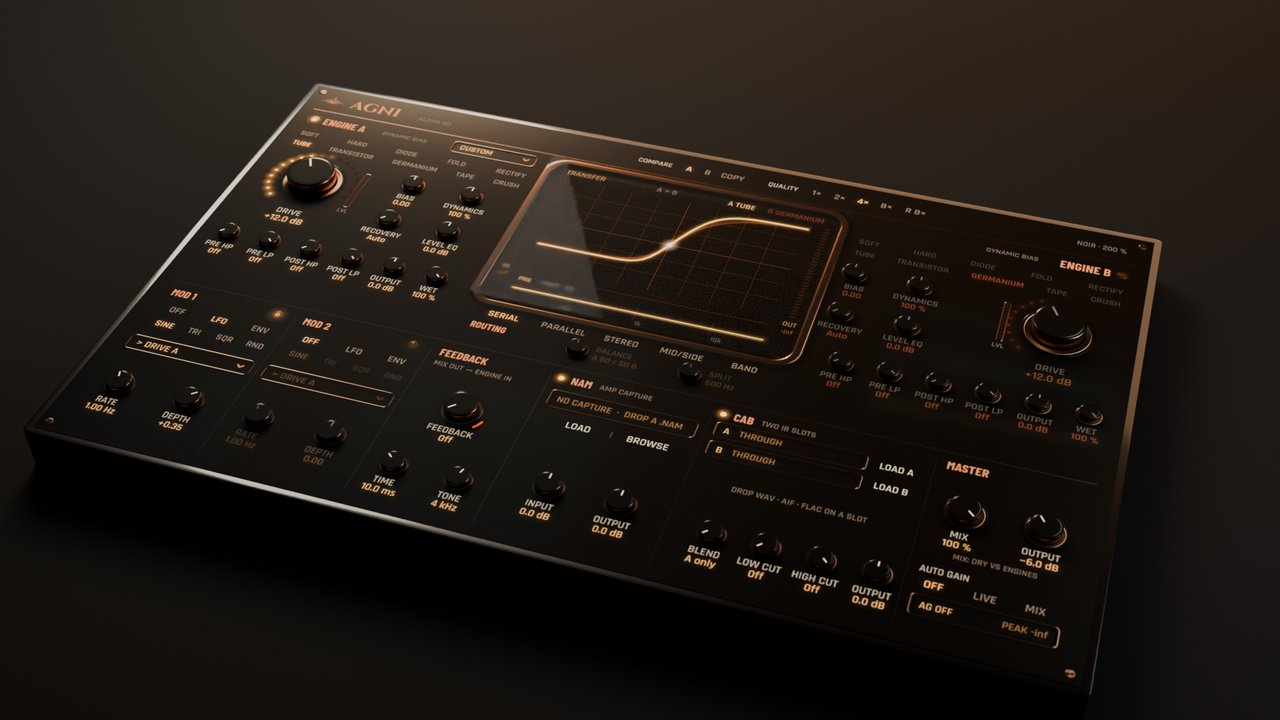
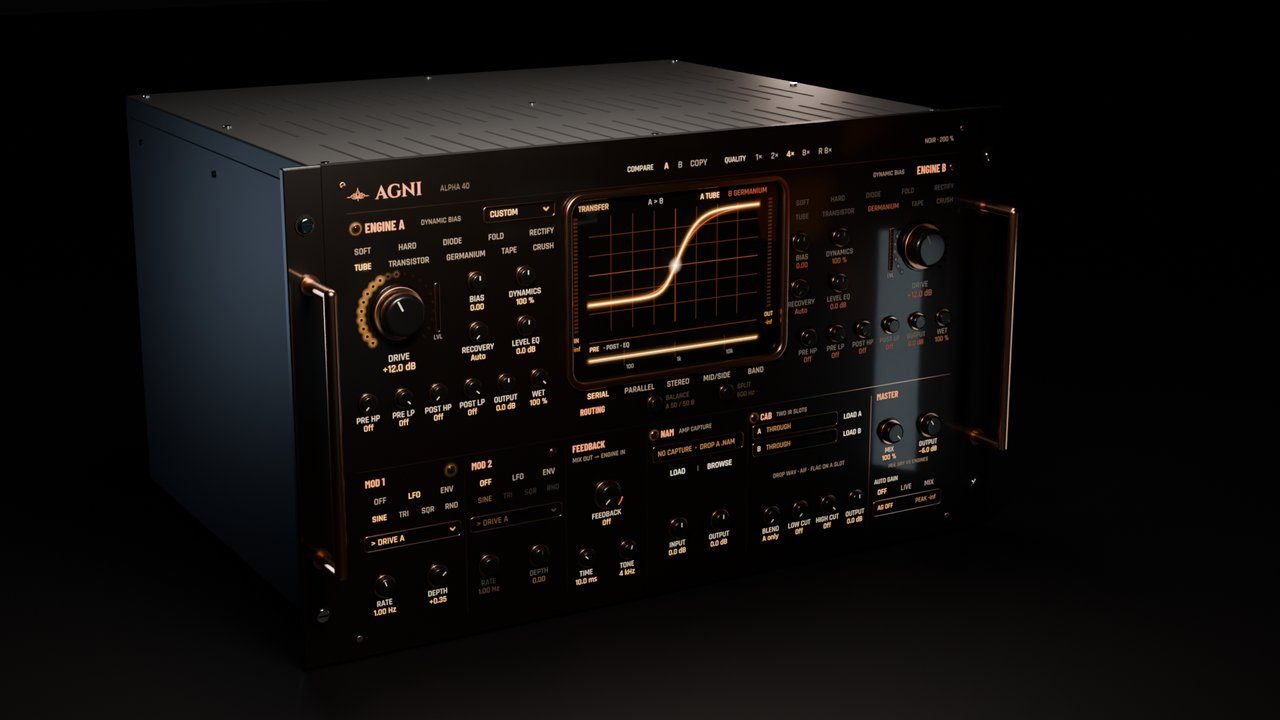
Site: 3D rack-unit hero renders for every product (Noir Limiter/Console/Dynamics/Neural, Agni Pyre, Galana Obsidian, Akasa Noir, Shunya Eclipse/Graticule, Lahari Fantasy/Analog)

diff --git a/index.html b/index.html
@@ -19,7 +19,7 @@
   <h1>I build plugins, <em>and this is where I keep them.</em></h1>
   <p>Pull up a chair. This is my little museum.. a channel strip, an effects box, a distortion, two reverbs and a modulation box. A lot of what they do is fitted to stuff I analyzed myself, and I built every one of them to feel good under your hands. All VST3, all Windows.</p>
   <div class="row"><a class="btn solid" href="spanda.html">start with Spanda</a><a class="btn" href="#plugins">see them all</a><a class="btn" href="buy.html">buy</a></div></header>
-  <figure class="plate" style="margin:0"><img src="img/lim-noir-hero.jpg" alt="Spanda Limiter in the Cinematic skin, rendered in 3D" width="1280" height="720"></figure>
+  <figure class="plate" style="margin:0"><img src="img/lim-noir-hero.jpg" alt="Spanda Limiter in the Noir skin as 5U rack gear, rendered in 3D" width="1280" height="720"></figure>
   <p class="cap">Spanda Limiter · Cinematic skin</p>
   <h2 class="sr">The plugins</h2>
   <div class="bays" id="plugins" style="padding-top:64px"><a class="bay" href="spanda.html" style="--c:var(--spanda)"><div class="thumb"><img src="img/con-noir-hero.jpg" alt="" width="1280" height="720" loading="lazy"></div><span class="tag">Channel strip</span><h3>Spanda</h3><p>Seven modules in one strip. Lots of it fitted to analysis, and parts you can mix and match.</p></a><a class="bay" href="galana.html" style="--c:var(--galana)"><div class="thumb"><img src="img/galana-hero.jpg" alt="" width="1280" height="720" loading="lazy"></div><span class="tag">Effects box</span><span class="soon-tag">Coming soon</span><h3>Gālana</h3><p>Twelve filters, a Movement section, chorus and delay, in any of six orders. Presets, A/B and undo.</p></a><a class="bay" href="agni.html" style="--c:var(--agni)"><div class="thumb"><img src="img/agni-hero.jpg" alt="" width="1280" height="720" loading="lazy"></div><span class="tag">Distortion</span><span class="soon-tag">Coming soon</span><h3>Agni</h3><p>Two engines, ten shapes, eight pedal models, five routings, a capture slot and cab IRs.</p></a><a class="bay" href="akasa.html" style="--c:var(--akasa)"><div class="thumb"><img src="img/akasa-b-detail.jpg" alt="" width="1600" height="900" loading="lazy"></div><span class="tag">Coloured reverb</span><h3>Ākāśa</h3><p>Six reverbs fitted to the decay and colour of classic digital units.. vintage converters optional.</p></a><a class="bay" href="shunya.html" style="--c:var(--shunya)"><div class="thumb"><img src="img/shunya-hero.jpg" alt="" width="1280" height="720" loading="lazy"></div><span class="tag">Transparent reverb</span><span class="soon-tag">Coming soon</span><h3>Shunya</h3><p>Six clean reverbs. No saturation, no drive, no grain. Just space.</p></a><a class="bay" href="lahari.html" style="--c:var(--lahari)"><div class="thumb"><img src="img/lahari-hero-analog.jpg" alt="" width="1600" height="900" loading="lazy"></div><span class="tag">Modulation</span><span class="soon-tag">Coming soon</span><h3>Lahari</h3><p>Chorus, ensemble, celeste, flanger and phaser, six units, fitted to classic digital chorus sections.</p></a><a class="bay" href="tula.html" style="--c:var(--tula)"><div class="thumb"><img src="img/skins/tula-studio.jpg" alt="" width="1260" height="900" loading="lazy"></div><span class="tag">Mix utility</span><h3>Tulā</h3><p>Gain staging, level matching and pan for every track. Listen All stages the whole session.</p></a></div>
